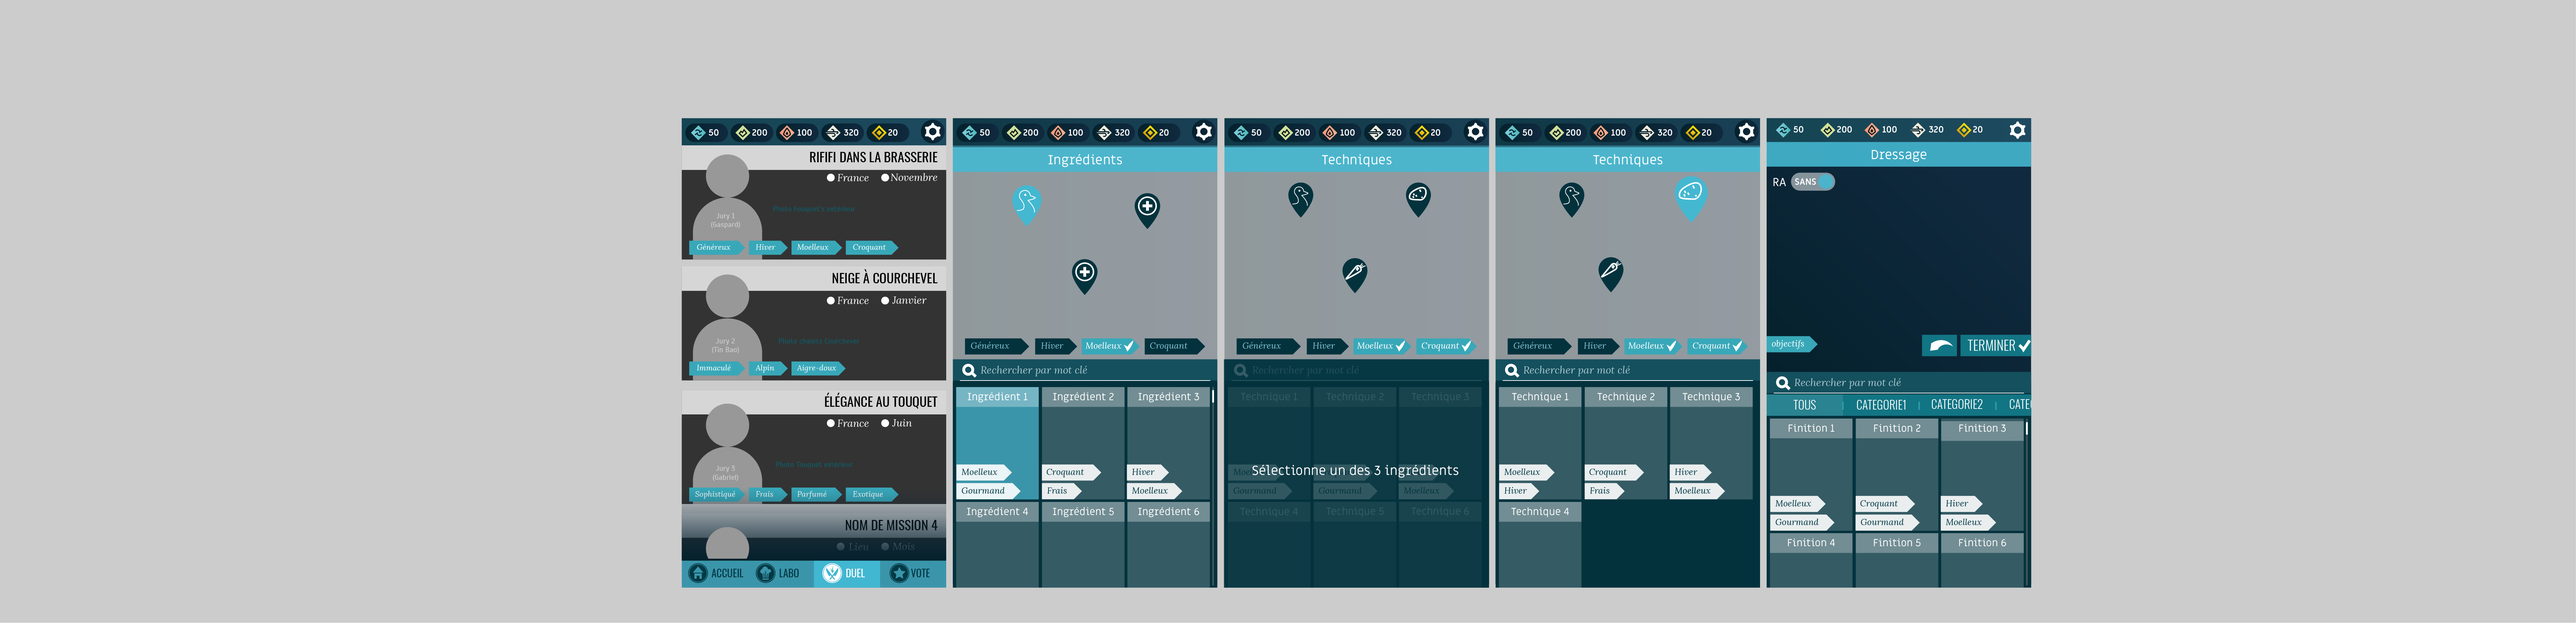
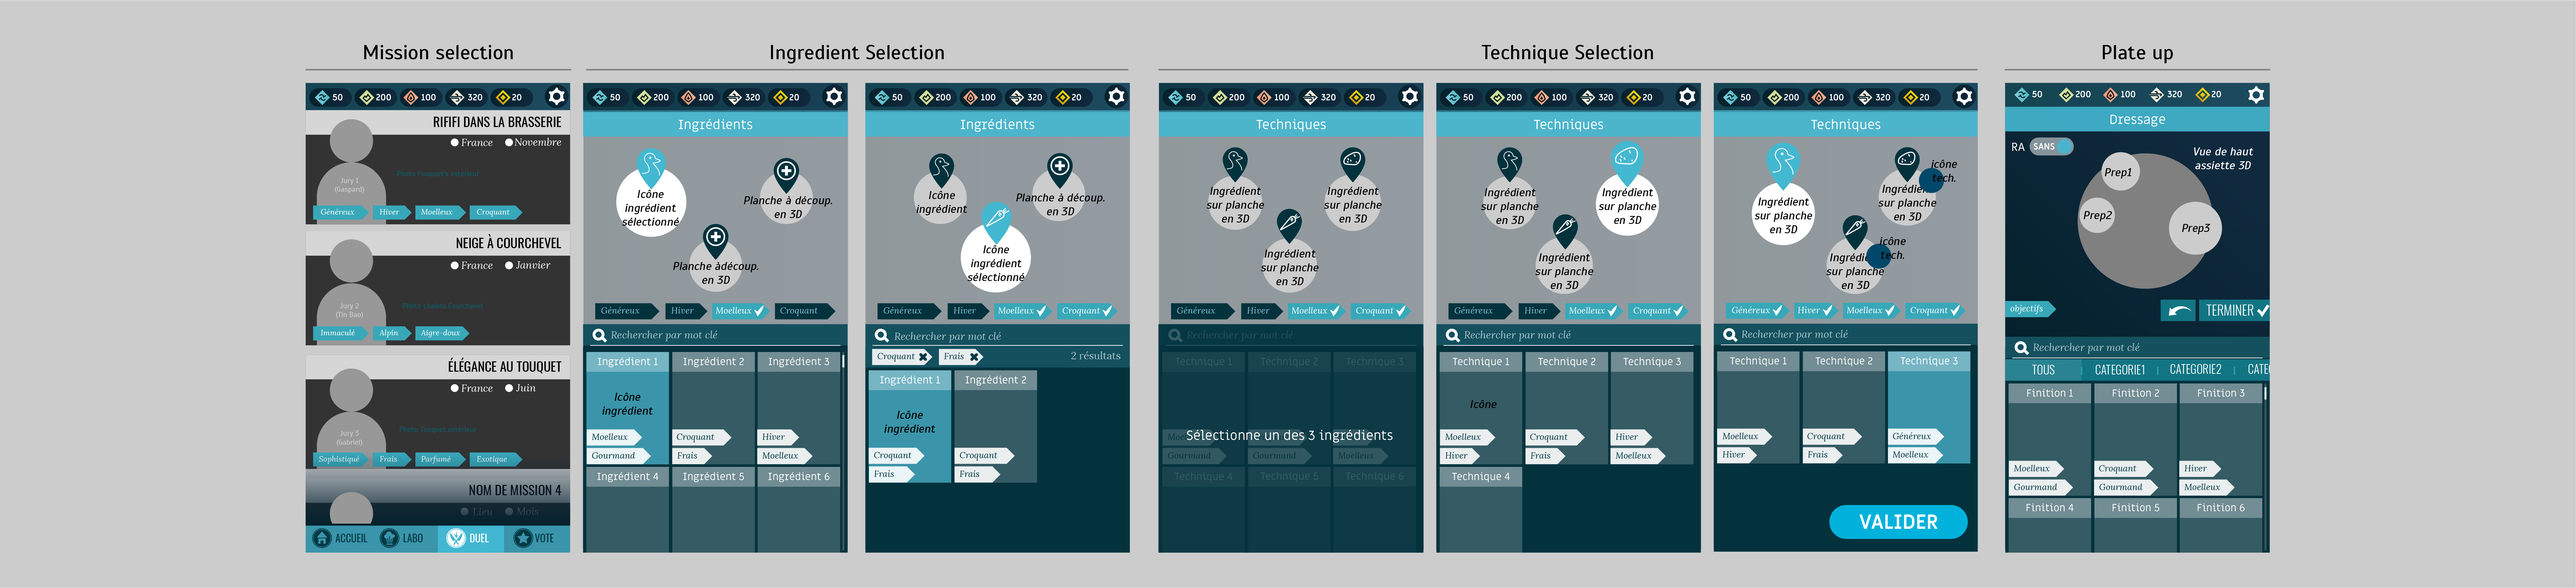
added latest version of CB wireframes

diff --git a/works_content/Chefbattle.html b/works_content/Chefbattle.html
@@ -38,7 +38,8 @@
     <img src="images/ChefBattle/CB_wireframes_01.png">
     <div class="projectComments">After some game design evolution</div>
 		<img src="images/ChefBattle/CB_wireframes_02.png">
-    <!-- <img src="images/ChefBattle/CB_wireframes_03.png"> -->
+    <div class="projectComments">Latest version</div>
+    <img src="images/ChefBattle/CB_wireframes_03.png">
    </div>
  
     <div id="TechniqueCardDesign">
